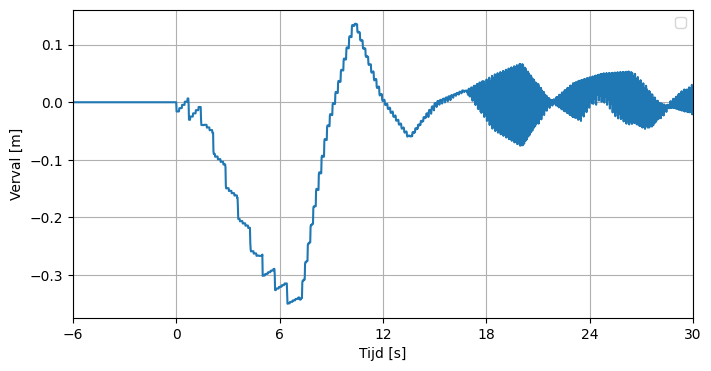
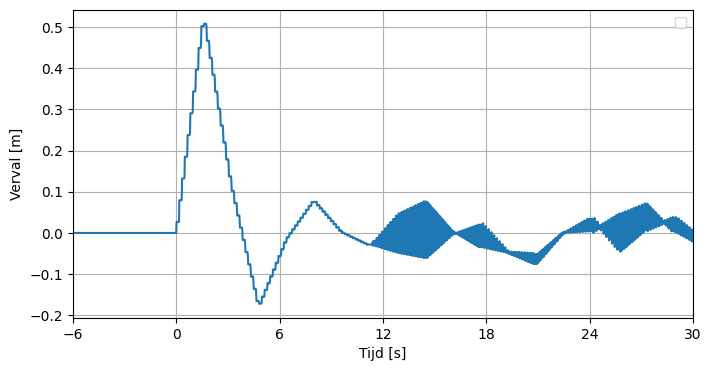
Update5.4_WK_Review

diff --git a/src/lockgate/Schip/KASGOLF_v6.py b/src/lockgate/Schip/KASGOLF_v6.py
@@ -105,7 +105,7 @@ else:
     DTG = Dict_inv['LKK'] / Dict_inv['VS']           #looptijd golf in kas bij vaarsnelheid (M0 == 1)
 
 ## 02-01-2025: Sluizenboek paragraaf 11.4.4.1/2/3 bevatten theorie over het ontstaan van de boeggolf en waterspiegelverlaging langszij een in- en uitvarend schip bij een sluis. 
-## Deze 'boeggolf' en 'waterspiegelverlaging langszij het schip' planten zich voort met de vaarsnelheid van het schip, ongeacht de propagation velocity op basis van shallow wave theory.
+## Deze 'boeggolf' en 'waterspiegelverlaging langszij het schip' planten zich voort met de vaarsnelheid van het schip, ongeacht de propagation velocity op basis van shallow wave theory. Alleen als de boeggolf het schip 'loslaat' versnelt deze volgens shallow wave theory.
 NKASR = Dict_inv['LKAS'] / CK / Dict_inv['DT'] #Aantal tijdstappen voor golf langs gehele kas
 NKAS = int(round(NKASR))
 NK = int(round(NKAS / 10))

diff --git a/docs/source/example.rst b/docs/source/example.rst
@@ -6,7 +6,7 @@
 
 Example: Simple lock with schematized wave
 ===========
-This example demonstrates the capability of the KASGOLF code by applying it to an hypothetical scenario. An overview of the lock and lockgate can be found in the figure below. The simulation starts at time t=-6.0 [s] with a time step of 0.02 [s]. A wave arrives at location V at time t=0 [s] and reaches location W according to the propagation velocity that is calculated using shallow wave theory (M0=0). It is assumed that there is no horizontal opening underneath the gate (AO=0) and the friction coefficient (:math:`\mu`) for the discharge through the vertical and horizontal openings between the lock chamber and gate recess is equal to 0.70 [-]. 
+This example demonstrates the capability of the KASGOLF code by applying it to an hypothetical scenario. An overview of the lock and lockgate can be found in the figure below. The simulation starts at time t=-6.0 [s] with a time step of 0.02 [s]. A positive translatory wave with height h=0.6 [m] arrives at location V at time t=0 [s] and propagates to location W with the velocity according to shallow wave theory (M0=0 [-]). It is assumed that there is no horizontal opening underneath the gate (AO=0 [:m:`m^2`]) and the friction coefficient (:m:`\mu`) for the discharge through the vertical and horizontal openings between the lock chamber and gate recess is equal to 0.70 [-]. 
 
 .. image:: ../images/example_berekening.png
 
@@ -16,12 +16,12 @@ The result of schematizing the example lock will be generated by the code and sh
 
 .. note::
 
-   As can be seen in the figure above, an instability occurs in the calculated hydraulic head. This is a numerical instability in the code caused by iterations of the discharge and water height of the translatory wave. See `sensitivity analysis <https://lockgate5-branch2.readthedocs.io/en/latest/example.html>`_ for a further analysis on this numerical instability.
+   As can be seen in the figure above, an instability occurs in the calculated hydraulic head. This is a numerical instability in the code caused by iterations of the discharge and water height of the translatory wave in the gate recess. See `sensitivity analysis <https://lockgate5-branch2.readthedocs.io/en/latest/example.html>`_ for a further analysis on this numerical instability.
 
 ##################
 
 The input file that was used for the calculation of this example case is shown below.
 
-.. literalinclude:: ../input/Inv_Sam_nz_OG.IN
+.. literalinclude:: ../input/Example_=0.6m.IN
    :language: none
    

diff --git a/docs/source/theory.rst b/docs/source/theory.rst
@@ -14,15 +14,16 @@ For the calculation of these water levels, the length of the gate is divided in 
 
 .. image:: ../images/overzicht_kas_kolk_secties.png
 
-To run a simulation with KASGOLF, the bed level of the lock and the dimensions of the gate, gate recess and openings need to be inserted in the model. The wave height of the water level variation in the lock chamber is inserted as a time array for location A. After a certain delay, this wave height then reaches location B. For the propagation velocity of this wave in the lock chamber the user of the model can choose between two options: 1) the propagation velocity of the translatory wave or the sailing velocity of the ship. The propagation velocity of the translatory wave in the gate recess is calculated using shallow wave theory:
+To run a simulation with KASGOLF, the bed level of the lock and the dimensions of the gate, gate recess and openings need to be inserted in the model. The wave height of the water level variation in the lock chamber is inserted as a time array for location A. After a certain delay, this wave height then reaches location B. For the propagation velocity of this wave in the lock chamber the user of the model can choose between two options: 1) the propagation velocity of the translatory wave or the sailing velocity of the ship. The propagation velocity of the translatory wave (wave celerity) in the gate recess is calculated using shallow wave theory:
 
 .. math::
 
-   c = \sqrt{g \cdot h} \quad \text{[m/s]}
+   c = \sqrt{g \cdot h}
 
 where:
 
-- \( g \) is the gravitational acceleration \([m/s^2]\),
-- \( h \) is the water depth \([m]\).
+- c \ is the wave celerity \([m/s]\),
+- g \ is the gravitational acceleration \([m/s^2]\),
+- h \ is the water depth \([m]\).
 
 
